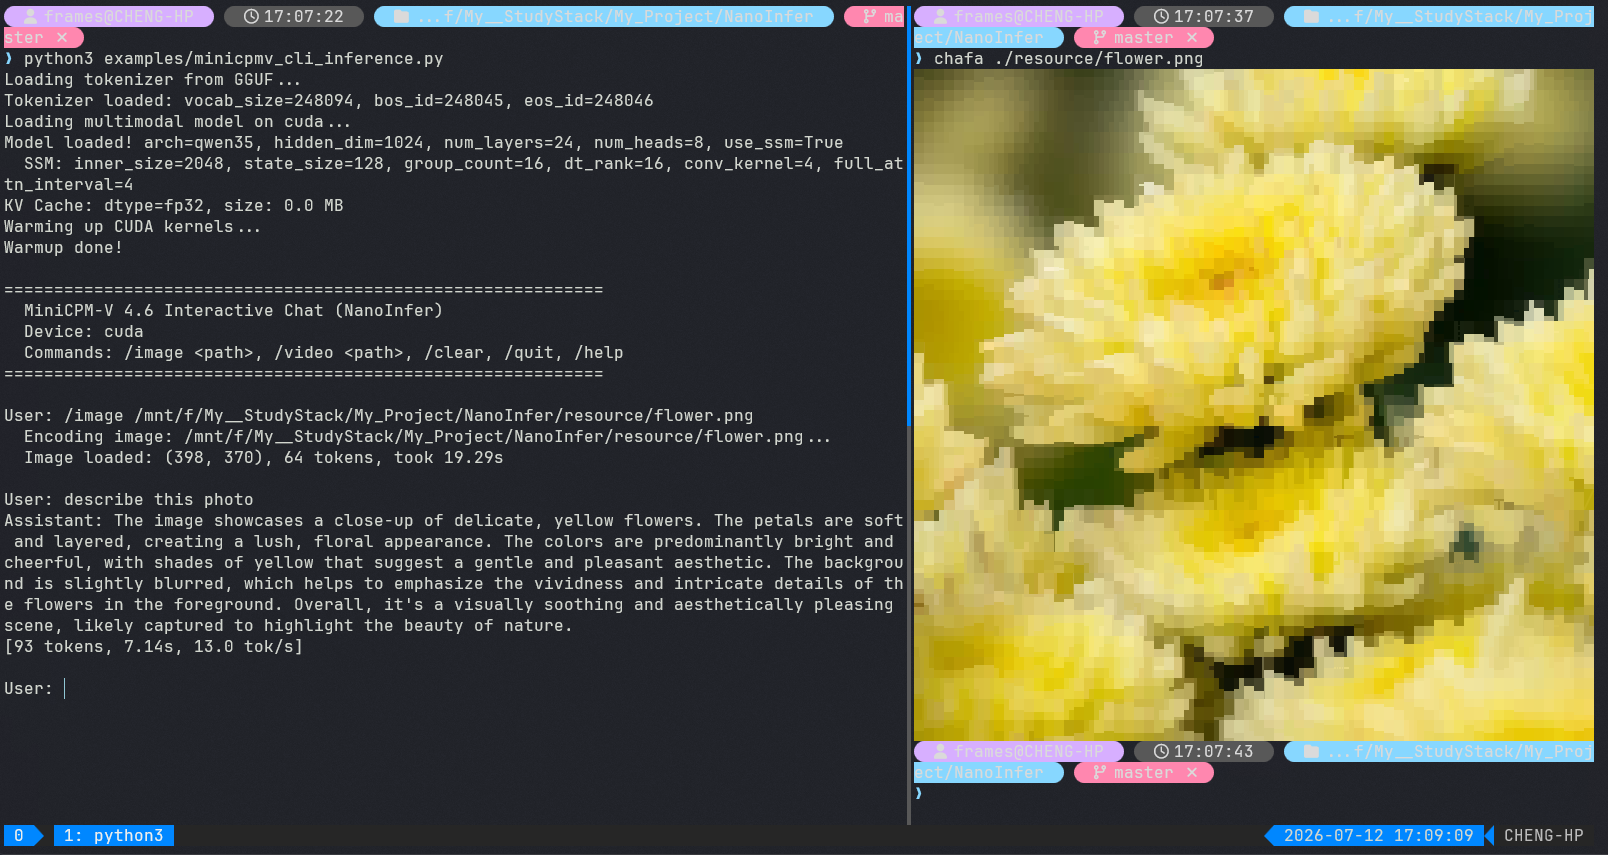
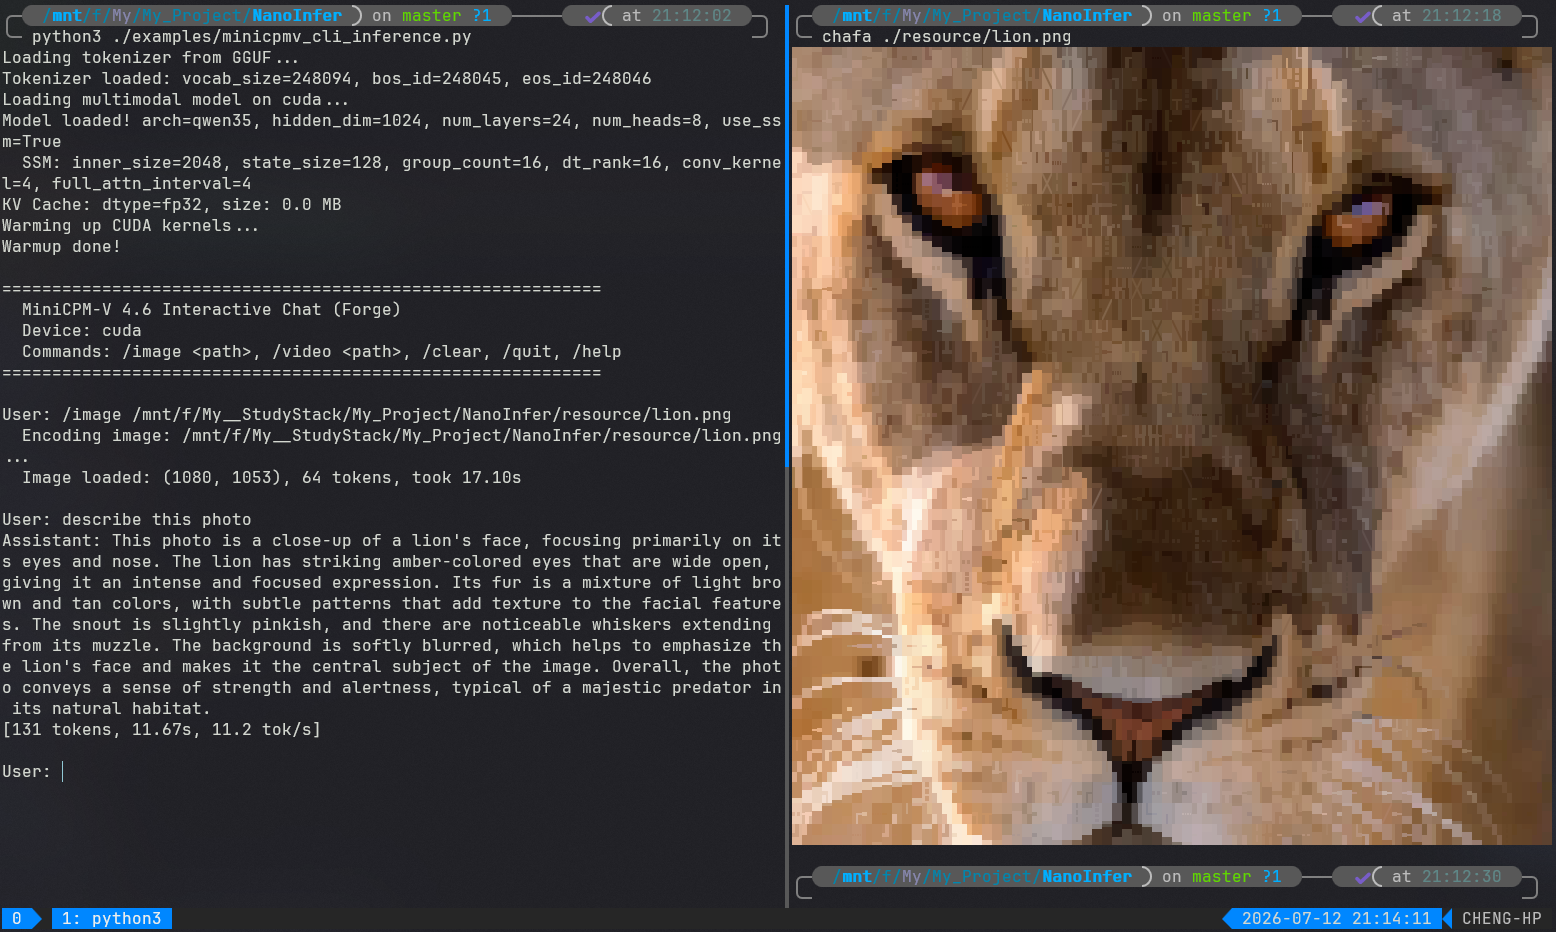
docs: update README and demo image
- Update English and Chinese README files
- Replace demo image with updated screenshot

diff --git a/README.md b/README.md
@@ -15,7 +15,7 @@
 <p align="center">
   <img src="https://img.shields.io/badge/version-0.5.0-blue" alt="version">
   <img src="https://img.shields.io/badge/C++-17-blue" alt="C++17">
-  <img src="https://img.shields.io/badge/CUDA-11.0+-green" alt="CUDA">
+  <img src="https://img.shields.io/badge/CUDA-12.8+-green" alt="CUDA">
   <img src="https://img.shields.io/badge/license-MIT-yellow" alt="license">
 </p>
 
@@ -45,7 +45,7 @@ Forge is a lightweight LLM inference engine written from scratch in C++ and CUDA
 ## Quick start
 
 ```bash
-git clone https://github.com/your-org/Forge.git
+git clone https://github.com/Cyxuan0311/Forge.git
 cd Forge
 
 cmake -B build && cmake --build build -j